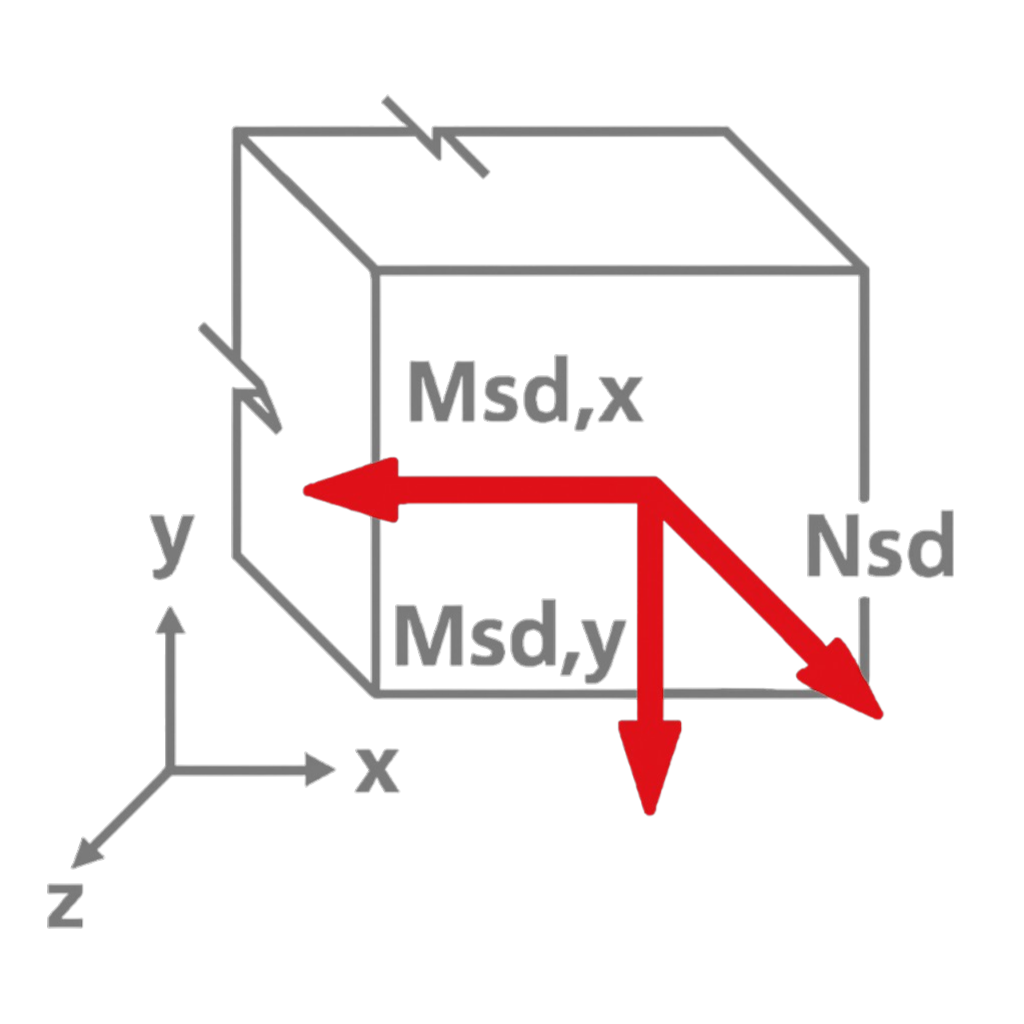
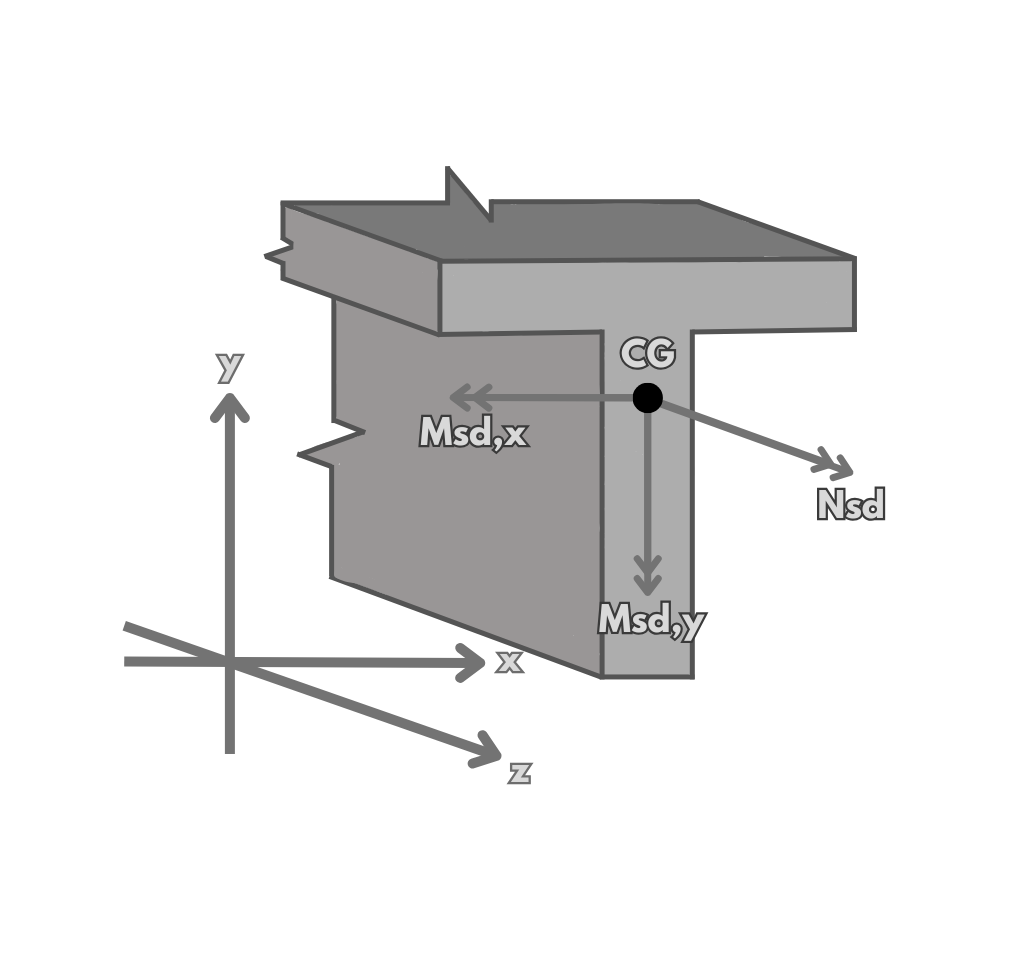
feat(Interface): update author window layout and improve image sizing for better visual alignment

Changed region(s): [[0.0312, 0.0938, 0.9375, 0.9062], [0.125, 0.5, 0.1875, 0.5625]]

diff --git a/src/Interface.cpp b/src/Interface.cpp
@@ -219,52 +219,42 @@ void Interface::showPrimaryMenuBar(Section &section)
 }
 void Interface::autorsWindow()
 {
+    // Títulos e separadores iniciais (sem alterações)
     ImGui::SeparatorText("Software de cálculo do momento resistente em seções de concreto armado");
     ImGui::Spacing();
     ImGui::Separator();
     ImGui::Spacing();
 
-   
-    ImGui::Columns(2, "info_layout", false);
-
-    
-    ImGui::SetColumnWidth(0, ImGui::GetWindowWidth() * 0.65f);
-
-    ImGui::Dummy(ImVec2(0.0f, 12.0ff)); 
+    ImGui::BeginGroup();
+    ImGui::Dummy(ImVec2(0.0f, 12.0f)); // Um pequeno espaço no topo para alinhamento visual
     ImGui::Text("Desenvolvido por:");
     ImGui::BulletText("Arthur C. Pena - arthur.cunha.pena@ufu.br");
     ImGui::BulletText("Gabriel A. P. Lunarti - gabriel.lunarti@ufu.br");
+    ImGui::EndGroup(); // Fim do grupo de texto
 
-   
-    ImGui::NextColumn();
+    ImGui::SameLine(0.0f, 100.0f); 
+    ImGui::BeginGroup();
+    if (m_esforcos.id > 0)
+            {
 
-   
-    if (m_logoUFU.id > 0) 
-    {
-        float largura_desejada = 120.0f;
-        float altura_proporcional = 0.0f;
+                float largura_desejada = 200.0f; // Um tamanho mais apropriado
+                float altura_proporcional = 0.0f;
 
-        
-        if (m_logoUFU.width > 0)
-        {
-             float aspectRatio = (float)m_logoUFU.height / (float)m_logoUFU.width;
-             altura_proporcional = largura_desejada * aspectRatio;
-        }
+                float aspectRatio = (float)m_logoUFU.height / (float)m_logoUFU.width;
+                altura_proporcional = largura_desejada * aspectRatio;
 
-        
-        ImGui::Dummy(ImVec2(0.0f, 8.0f));
-
-      
-        float largura_coluna_imagem = ImGui::GetColumnWidth();
-        ImGui::SetCursorPosX(ImGui::GetCursorPosX() + (largura_coluna_imagem - largura_desejada) * 0.5f);
-       
-        ImGui::Image((ImTextureID)&m_logoUFU, ImVec2(largura_desejada, altura_proporcional));
-    }
-
-    ImGui::Columns(1);
-
-    ImGui::Separator(); 
-    ImGui::Spacing();
+                ImVec2 tamanho_da_imagem = ImVec2(largura_desejada, altura_proporcional); 
+                ImVec2 espaco_disponivel = ImGui::GetContentRegionAvail();
+                
+                float offsetX = (espaco_disponivel.x - tamanho_da_imagem.x) * 0.5f;
+               
+                ImGui::SetCursorPosX(280.0f);
+                ImGui::SetCursorPosY(15.0f); // Ajusta a posição Y para centralizar verticalmente
+                ImGui::Image((ImTextureID)&m_logoUFU, tamanho_da_imagem);
+            }
+    ImGui::EndGroup();
+    
+    ImGui::Separator();
 
     ImGui::Text("Orientador:");
     ImGui::BulletText("Prof. Dr. Eduardo Vicente Wolf Trentini - etrentini@ufu.br ");
@@ -272,6 +262,7 @@ void Interface::autorsWindow()
     ImGui::Separator();
     ImGui::Spacing();
 
+    // Botão Fechar (sem alterações)
     float buttonWidth = 100.0f;
     ImGui::SetCursorPosX((ImGui::GetWindowWidth() - buttonWidth) * 0.5f);
     if (ImGui::Button("Fechar", ImVec2(buttonWidth, 30)))
@@ -1341,7 +1332,7 @@ void Interface::effortSectionInterface(Section &section)
 
     if (mostrar_janela_esforcos)
     {
-        ImGui::SetNextWindowSize(ImVec2(610, 400), ImGuiCond_Appearing);
+        ImGui::SetNextWindowSize(ImVec2(610, 450), ImGuiCond_Appearing);
         ImGui::SetNextWindowPos(ImVec2(265, 47), ImGuiCond_Appearing);
 
         if (ImGui::Begin("Entrada de Dados: Esforços", &mostrar_janela_esforcos,
@@ -1429,17 +1420,20 @@ void Interface::effortSectionInterface(Section &section)
 
             if (m_esforcos.id > 0)
             {
-                ImVec2 tamanho_da_imagem = ImVec2(150, 150); 
-                
+
+                float largura_desejada = 400.0f; // Um tamanho mais apropriado
+                float altura_proporcional = 0.0f;
+
+                float aspectRatio = (float)m_esforcos.height / (float)m_esforcos.width;
+                altura_proporcional = largura_desejada * aspectRatio;
+
+                ImVec2 tamanho_da_imagem = ImVec2(largura_desejada, altura_proporcional); 
                 ImVec2 espaco_disponivel = ImGui::GetContentRegionAvail();
                 
                 float offsetX = (espaco_disponivel.x - tamanho_da_imagem.x) * 0.5f;
-                float offsetY = (espaco_disponivel.y - tamanho_da_imagem.y) * 0.5f;
                
-                if (offsetX > 0) ImGui::SetCursorPosX(ImGui::GetCursorPosX() + offsetX);
-                if (offsetY > 0) ImGui::SetCursorPosY(ImGui::GetCursorPosY() + offsetY);
-
-                // 6. Desenhe a imagem.
+                ImGui::SetCursorPosX(ImGui::GetCursorPosX() + offsetX);
+                ImGui::SetCursorPosY(ImGui::GetCursorPosY() - 80.0f); // Ajusta a posição Y para centralizar verticalmente
                 ImGui::Image((ImTextureID)&m_esforcos, tamanho_da_imagem);
             }
         }
@@ -1994,13 +1988,13 @@ void Interface::RightTablePos(const char *nome1, const char *nome2, float posY, 
 
     float larguraFixa = 300.0f;
     float alturaTotal = io.DisplaySize.y - posY;
-    float alturaCadaJanela = alturaTotal / 2.0f;
+    float alturaCadaJanela = alturaTotal / 3.0f;
 
     // --- Janela 1: Tabela de Pontos ---
     ImVec2 posJanela1 = ImVec2(io.DisplaySize.x - larguraFixa, posY);
 
     ImGui::SetNextWindowPos(posJanela1, ImGuiCond_Always);
-    ImGui::SetNextWindowSize(ImVec2(larguraFixa, alturaCadaJanela), ImGuiCond_Always);
+    ImGui::SetNextWindowSize(ImVec2(larguraFixa, 1.1 * alturaCadaJanela), ImGuiCond_Always);
     ImGui::Begin(nome1, nullptr,
                  ImGuiWindowFlags_NoMove |
                      ImGuiWindowFlags_NoResize |
@@ -2020,10 +2014,10 @@ void Interface::RightTablePos(const char *nome1, const char *nome2, float posY, 
     ImGui::End();
 
     // --- Janela 2: Tabela de Esforços ---
-    ImVec2 posJanela2 = ImVec2(io.DisplaySize.x - larguraFixa, posY + alturaCadaJanela);
+    ImVec2 posJanela2 = ImVec2(io.DisplaySize.x - larguraFixa, posY + 1.1 * alturaCadaJanela);
 
     ImGui::SetNextWindowPos(posJanela2, ImGuiCond_Always);
-    ImGui::SetNextWindowSize(ImVec2(larguraFixa, alturaCadaJanela), ImGuiCond_Always);
+    ImGui::SetNextWindowSize(ImVec2(larguraFixa, 1.9 * alturaCadaJanela), ImGuiCond_Always);
     ImGui::Begin(nome2, nullptr,
                  ImGuiWindowFlags_NoMove |
                      ImGuiWindowFlags_NoResize |
